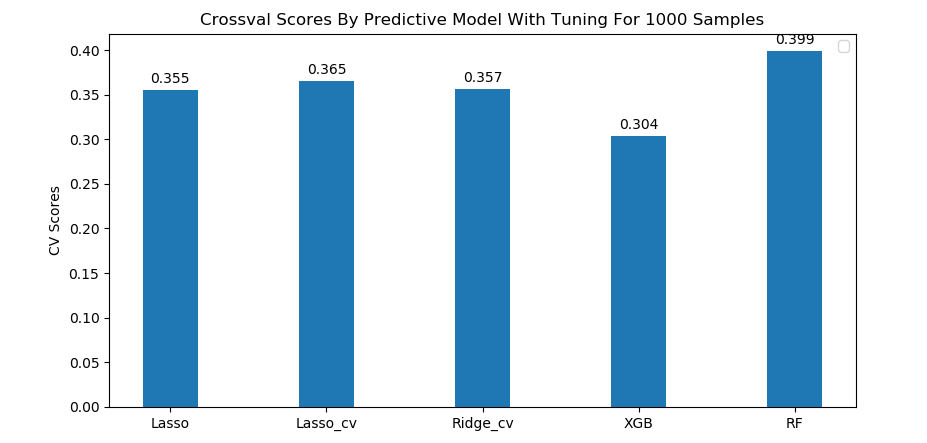
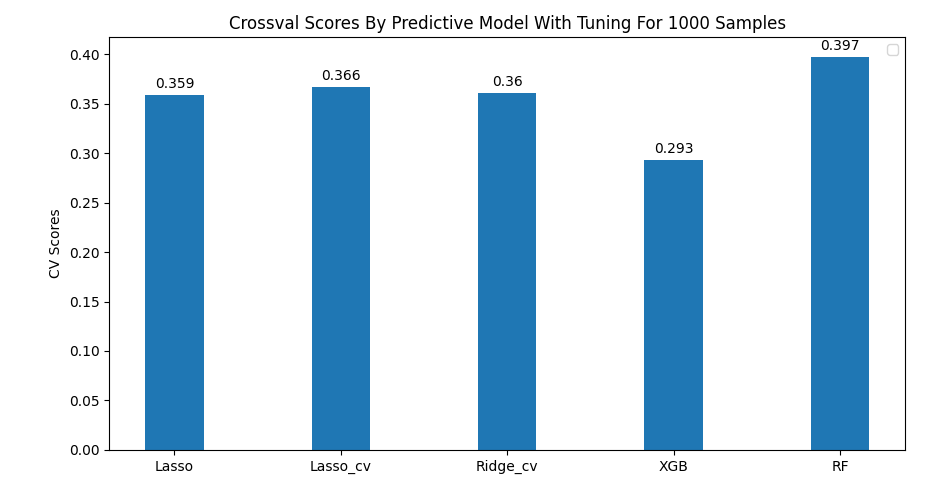
fix time features

diff --git a/Code/tests_real_data.py b/Code/tests_real_data.py
@@ -65,12 +65,13 @@ def time_convert(X):
     X = X.copy()
 
     for col, dtype in zip(X.columns, X.dtypes):
-        col_name = str(col) + '_'
-        X[col_name + 'year'] = X[col].dt.year
-        X[col_name + 'weekday'] = X[col].dt.dayofweek
-        X[col_name + 'yearday'] = X[col].dt.dayofyear
-        X[col_name + 'time'] = X[col].dt.minute
-        X = X.drop([col_name], axis=1)
+        if X[col].dtypes == "datetime64[ns]":
+            col_name = str(col) + '_'
+            X[col_name + 'year'] = X[col].dt.year
+            X[col_name + 'weekday'] = X[col].dt.dayofweek
+            X[col_name + 'yearday'] = X[col].dt.dayofyear
+            X[col_name + 'time'] = X[col].dt.minute
+            X = X.drop(columns=[col], axis=1)
 
     return X
 
@@ -184,7 +185,7 @@ def compute_cv(X, y, models, n_splits, n_jobs=1):
     models : dict
         dict of models
 
-    n_splits: int
+    n_splits: intprint("X before = ", X)
         number of folds
 
     n_jobs: int
@@ -287,29 +288,23 @@ def main():
 
     start1 = time.time()
 
-    X, y = load_auto_prices()
-    # print("X = ", X.dtypes)
-    # profile = ProfileReport(X, title='Pandas Profiling Report')
-    # profile.to_file(output_file='output_black_friday.html')
-
-    # X, y = load_lacrimes()
+    # X, y = load_auto_prices()
+    X, y = load_lacrimes()
     # X, y = load_black_friday()
     # X, y = load_housing_prices()
     # X, y = load_nyc_taxi()
     # X, columns_kept_time = time_convert(X)
 
-    # print("X = ", type(X))  # pandas class
-
     models, tuned_parameters = get_models(
-            X[:20],
+            X[:1000],
             lmbda=lmbda,
             epsilon=epsilon,
             f=f, n_epochs=n_epochs,
             screening=screening,
             store_history=store_history)
 
-    cv_scores = compute_cv(X=X[:20],
-                           y=y[:20],
+    cv_scores = compute_cv(X=X[:1000],
+                           y=y[:1000],
                            models=models, n_splits=n_splits, n_jobs=n_jobs)
 
     print("cv_scores = ", cv_scores)
@@ -326,8 +321,8 @@ def main():
     print("cv_scores without tuning params = ", list_cv_scores)
 
     start2 = time.time()
-    gs_scores = compute_gs(X=X[:20],
-                           y=y[:20],
+    gs_scores = compute_gs(X=X[:1000],
+                           y=y[:1000],
                            models=models, n_splits=n_splits,
                            tuned_parameters=tuned_parameters, n_jobs=n_jobs)
 
